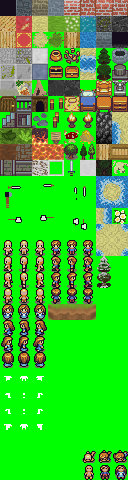
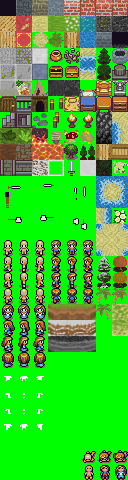
Made some minor map improvements, added more of Jam's fantastic graphics.

Changed region(s): [[0.375, 0.6562, 0.75, 0.75], [0.75, 0.5312, 1.0, 0.7188], [0.625, 0.2812, 0.75, 0.3438]]

diff --git a/maps.c b/maps.c
@@ -255,44 +255,28 @@ view map_beach(unsigned int xPos, unsigned int yPos) {
 	return me;
 }
 
-view map_ridge() {
-	view me={
-		{
-			{11,11,0,0,0,0,0,0,0,0},
-			{11,155,0,0,0,0,0,0,0,0},
-			{11,156,0,0,0,0,0,0,0,0},
-			{11,156,0,0,0,0,0,0,0,0},
-			{11,157,0,0,0,0,0,0,0,0},
-			{11,11,0,0,0,0,0,0,0,0},
-			{11,155,0,0,0,0,0,0,0,0},
-			{11,156,0,0,0,0,0,0,0,0},
-			{11,156,0,0,0,0,0,0,0,0},
-			{11,156,0,0,0,0,0,0,0,0},
-			{11,156,0,0,0,0,0,0,0,0},
-			{11,156,0,0,0,0,0,0,0,0},
-			{11,156,0,0,0,0,0,0,0,0},
-			{11,157,0,0,0,0,0,0,0,0},
-			{11,11,10,0,0,0,0,0,0,0}
-		},
-		{
-			{0,0,0,0,0,0,0,0,0,0},
-			{0,1,0,0,0,0,0,0,0,0},
-			{0,1,0,0,0,0,0,0,0,0},
-			{0,1,0,0,0,0,0,0,0,0},
-			{0,1,0,0,0,0,0,0,0,0},
-			{0,0,0,0,0,0,0,0,0,0},
-			{0,1,0,0,0,0,0,0,0,0},
-			{0,1,0,0,0,0,0,0,0,0},
-			{0,1,0,0,0,0,0,0,0,0},
-			{0,1,0,0,0,0,0,0,0,0},
-			{0,1,0,0,0,0,0,0,0,0},
-			{0,1,0,0,0,0,0,0,0,0},
-			{0,1,0,0,0,0,0,0,0,0},
-			{0,1,0,0,0,0,0,0,0,0},
-			{0,0,0,0,0,0,0,0,0,0}
+view map_ridge(uint32_t hash, char in) {
+	view me;
+	view blend;
+	memset(&me,0,sizeof me);
+	in*=8;
+	me.screen[0][0]=155+in;
+	me.layers[0][0]=1;
+	int x=1;
+	for(;;x++) {
+		hash=lfsr(hash);
+		if(x>SW-3||hash&BIT(7) && x>3){
+			me.screen[x][0]=157+in;
+			me.layers[x][0]=1;
+			break;
+		} else {
+			me.screen[x][0]=156+in;
+			me.layers[x][0]=1;
 		}
-	};
-	return me;
+	}
+	memset(&blend,0,sizeof blend);
+	blend=offsetBlendMap(blend,me,SW-2-x,0);
+	return blend;
 }
 
 view map_ruinedhouse() {
@@ -375,14 +359,17 @@ view map_snowlandBase(uint16_t xIn, uint16_t yIn) {
 	if(screenHash & BIT(2) && screenHash & BIT(1) && screenHash & BIT(3)) {
 		screenHash=lfsr(screenHash);
 		me=offsetBlendMap(me,map_ruinedhouse(),screenHash%3,screenHash%3);
+	} else if(screenHash&BIT(0)){
+		screenHash=lfsr(screenHash);
+		me=offsetBlendMap(me,map_ridge(screenHash,1),0,screenHash%9);
 	}
 	for(int x=0;x<SW;x++) {
 		for(int y=0;y<SH;y++) {
+			screenHash=lfsr(screenHash);
 			if(screenHash & BIT(2) && screenHash & BIT(3) && screenHash & BIT(4) && screenHash & BIT(5) && me.screen[x][y]==85) {
 				entitySpawn(ent_wall(134),eX+(TS*x),eY+(TS*y));
 				me.layers[x][y]=1;
 			}
-			screenHash=lfsr(screenHash);
 		}
 	}
 	me.spawnFunc=NULL;
@@ -409,7 +396,7 @@ view map_grasslandBase(uint16_t xIn, uint16_t yIn) {
 	}
 	if(screenHash & BIT(0)) {
 		screenHash=lfsr(screenHash);
-		me=offsetBlendMap(me,map_ridge(),0,screenHash%SH);
+		me=offsetBlendMap(me,map_ridge(screenHash,0),0,screenHash%SH);
 	} else if(screenHash & BIT(2) && screenHash & BIT(1) && screenHash & BIT(3)) {
 		screenHash=lfsr(screenHash);
 		me=offsetBlendMap(me,map_ruinedhouse(),screenHash%3,screenHash%3);
@@ -425,4 +412,24 @@ view map_grasslandBase(uint16_t xIn, uint16_t yIn) {
 	}
 	me.spawnFunc=NULL;
 	return me;
+}
+
+view map_burren(uint16_t xIn, uint16_t yIn) {
+	/*view me;
+	memset(&me.screen,15,sizeof me.screen);
+	memset(&me.layers,0,sizeof me.layers);
+	uint32_t screenHash=0;
+	screenHash |= xIn<<16;
+	screenHash |= yIn;
+	screenHash=lfsr(screenHash);
+	for(int x=0;x<SW;x++){
+		for(int y=0;y<SH;y++){
+			screenHash=lfsr(screenHash);
+			if(screenHash&BIT(0)){
+				me.screen[x][y]=
+			}
+		}
+	}
+	return me;*/
+	return map_grasslandBase(xIn,yIn);
 }

diff --git a/worldgen.c b/worldgen.c
@@ -55,7 +55,6 @@ void worldgen(view* in, uint16_t xPos, uint16_t yPos) {
 	uint32_t screenHash=PAIR(xPos,yPos);
 	screenHash = lfsr(screenHash);
 
-
 	switch(PAIR(xPos,yPos)) {
 		case PAIR(300,300):
 			memset(&in->screen,1,sizeof in->screen);
@@ -80,12 +79,14 @@ void worldgen(view* in, uint16_t xPos, uint16_t yPos) {
 	}
 
 	//printf("Difference: %d\n", diff);
-	if(DIST(xPos,yPos,400,400)<40000 && yPos>250) {
+	if(DIST(xPos,yPos,400,400)<40000 && yPos>250 && xPos<267) {
 		*in=map_grasslandBase(xPos,yPos);
 	} else if( DIST(xPos,yPos,400,400)<40000 && yPos<250){
 		*in=map_snowlandBase(xPos,yPos);
 	} else if(DIST(xPos,yPos,400,400)<40000 && yPos==250) {
 		*in=map_snowgrass(xPos,yPos);
+	} else if((DIST(xPos,yPos,400,400)<40000 && yPos>250 && xPos>267)) {
+		*in=map_burren(xPos,yPos);
 	} else if (DIST(xPos,yPos,400,400)<40804){
 		*in=map_beach(xPos,yPos);
 	} else if(xPos<605&&yPos<605){

diff --git a/main.c b/main.c
@@ -765,10 +765,18 @@ void loop() {
 
 int main () {
 	SDL_Init(SDL_INIT_VIDEO);
+	#ifdef WEB
+	w = SDL_CreateWindow(TITLE, 0, 0, SW*TS*2, (SH*TS+HUDHEIGHT)*2, SDL_WINDOW_OPENGL);
+	#else
 	w = SDL_CreateWindow(TITLE, 0, 0, SW*TS*4, (SH*TS+HUDHEIGHT)*4, SDL_WINDOW_OPENGL);
+	#endif
 	r = SDL_CreateRenderer(w,-1,SDL_RENDERER_ACCELERATED || SDL_RENDERER_PRESENTVSYNC);
 	SDL_RenderSetLogicalSize(r, TS*SW,TS*SH+HUDHEIGHT);
+	#ifdef WEB
+	SDL_RenderSetScale(r,2,2);
+	#else
 	SDL_RenderSetScale(r,4,4);
+	#endif
 	SDL_SetRenderDrawBlendMode(r,SDL_BLENDMODE_BLEND);
 	s = SDL_GetWindowSurface(w);
 	rng.ui32=4; //SEEDS THE MAIN RNG
